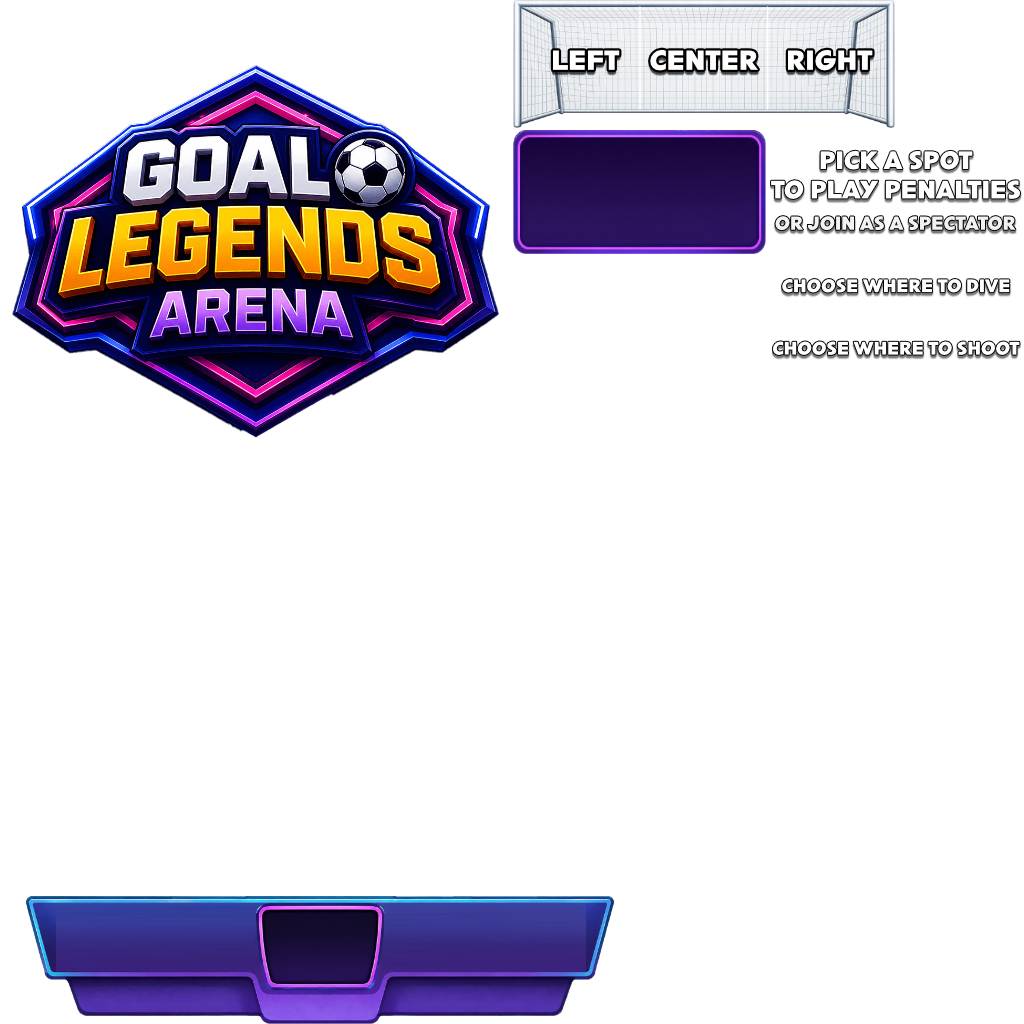
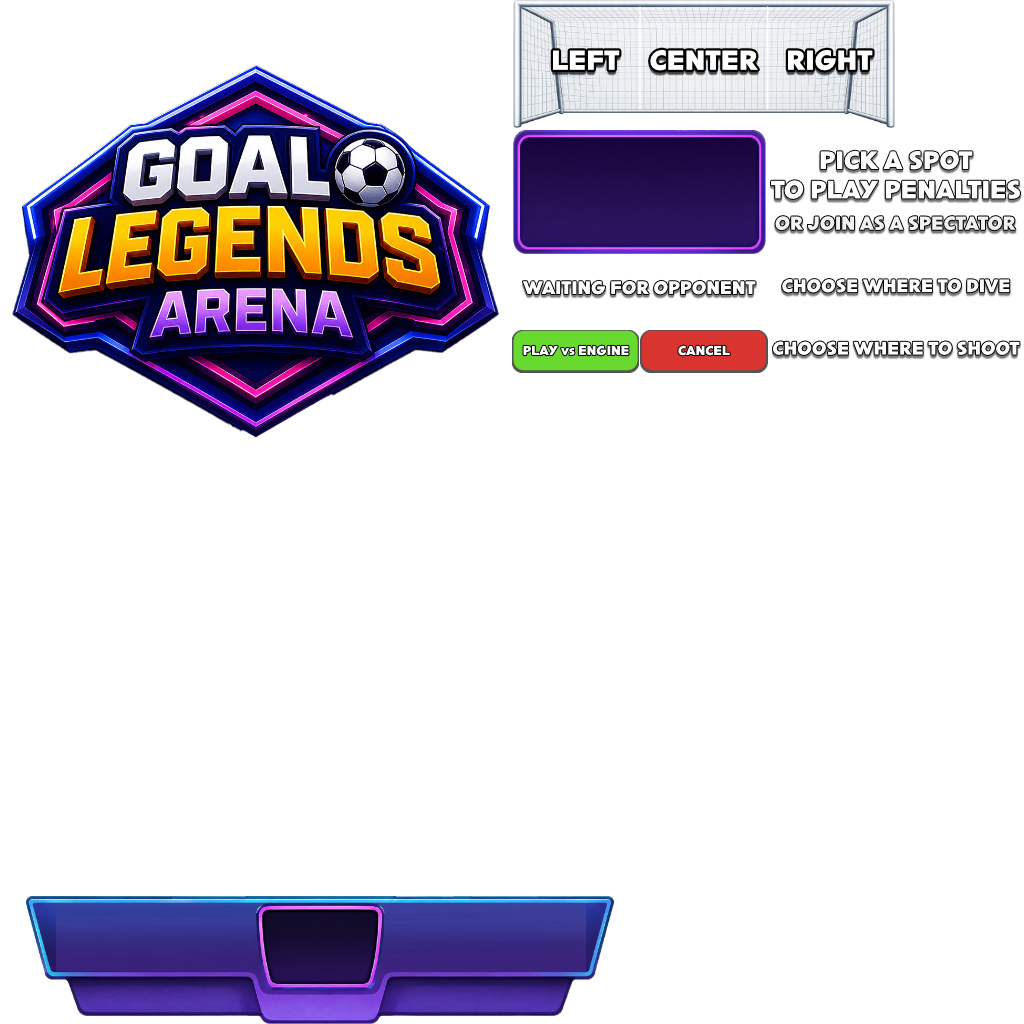
Improve "waiting opponent" UI

Changed region(s): [[0.5, 0.25, 0.75, 0.375]]

diff --git a/src/client/uiManager.tsx b/src/client/uiManager.tsx
@@ -36,7 +36,11 @@ import {
   pickDirectionTitleShootBackground,
   pickDirectionLeftBackground,
   pickDirectionCenterBackground,
-  pickDirectionRightBackground
+  pickDirectionRightBackground,
+  waitingOpponentBackground,
+  waitingOpponentTitleBackground,
+  waitingOpponentPvEButtonBackground,
+  waitingOpponentCancelButtonBackground
 } from './uiAtlasStore'
 
 /**
@@ -167,6 +171,8 @@ let splashDismissed = false
 let hoverPickL = false
 let hoverPickC = false
 let hoverPickR = false
+let hoverWaitPvE = false
+let hoverWaitCancel = false
 let hoverSplashStart = false
 /** Offset entre reloj servidor y cliente, cacheado al primer snapshot válido (solo para debug). */
 let serverClockOffset: number | null = null
@@ -389,6 +395,13 @@ const lbRows = getLeaderboardRows(s.leaderboardJson, LEADERBOARD_TOP_N)
   const sbRowH = Math.max(sbPic, sbFlagH)
   const sbNameH = Math.ceil(fs(18) * 1.2)
   const sbNameW = scoreboardNameLabelWidth()
+
+  const waitPanelW = Math.floor((isMobile() ? 620 : 480) * 1.2)
+  const waitPanelH = Math.floor(waitPanelW / 2)
+  const waitTitleWidth = Math.floor(waitPanelW * 0.85)
+  const waitTitleHeight = Math.floor(waitTitleWidth / 4)
+  const waitBtnW = Math.floor((isMobile() ? 220 : 180) * 1.2)
+  const waitBtnH = Math.floor(waitBtnW / 2)
 
   return (
     <UiEntity
@@ -924,20 +937,63 @@ const lbRows = getLeaderboardRows(s.leaderboardJson, LEADERBOARD_TOP_N)
       {showWaiting && (
         <UiEntity
           uiTransform={{
-            margin: { top: '12vh' },
-            padding: 18,
+            positionType: 'absolute',
+            position: { top: '17vh', left: 0 },
+            width: '100%',
             display: 'flex',
-            flexDirection: 'column',
-            alignItems: 'center'
+            flexDirection: 'row',
+            justifyContent: 'center',
+            zIndex: 48
           }}
-          uiBackground={{ color: Color4.create(0, 0, 0, 0.90) }}
         >
-          <Label value="Waiting for opponent" fontSize={fs(35)} color={Color4.White()} textAlign="middle-center" />
+          <UiEntity
+            uiTransform={{
+              width: waitPanelW,
+              height: waitPanelH,
+              positionType: 'relative'
+            }}
+          >
+            <UiEntity
+              uiTransform={{
+                positionType: 'absolute',
+                position: { top: 0, left: 0 },
+                width: '100%',
+                height: '100%',
+                zIndex: 0
+              }}
+              uiBackground={waitingOpponentBackground()}
+            />
+            <UiEntity
+              uiTransform={{
+                positionType: 'relative',
+                width: '100%',
+                height: '100%',
+                padding: { top: 22, bottom: 22, left: 24, right: 24 },
+                display: 'flex',
+                flexDirection: 'column',
+                alignItems: 'center',
+                justifyContent: 'center',
+                zIndex: 1
+              }}
+            >
+          <UiEntity
+            uiTransform={{
+              width: '100%',
+              display: 'flex',
+              flexDirection: 'row',
+              justifyContent: 'center'
+            }}
+          >
+            <UiEntity
+              uiTransform={{ width: waitTitleWidth, height: waitTitleHeight }}
+              uiBackground={waitingOpponentTitleBackground()}
+            />
+          </UiEntity>
           <Label
             value={`${waitDisplayLeft}s`}
             fontSize={fs(30)}
             color={Color4.create(1, 0.85, 0.2, 1)}
-            uiTransform={{ margin: { top: 10 } }}
+            uiTransform={{ margin: { top: -20 } }}
           />
           <UiEntity
             uiTransform={{
@@ -949,21 +1005,29 @@ const lbRows = getLeaderboardRows(s.leaderboardJson, LEADERBOARD_TOP_N)
             }}
           >
             <Button
-              value="Player vs Engine"
-              fontSize={fs(20)}
-              color={Color4.White()}
-              uiTransform={{ width: 220, height: 44, margin: { right: 12 } }}
-              uiBackground={{ color: Color4.create(0.2, 0.45, 0.25, 1) }}
+              value=""
+              uiTransform={{ width: waitBtnW, height: waitBtnH, margin: { right: 14 } }}
+              uiBackground={{
+                ...waitingOpponentPvEButtonBackground(),
+                color: Color4.create(1, 1, 1, hoverWaitPvE ? 1 : 0.92)
+              }}
               onMouseDown={() => room.send('startPvE', {})}
+              onMouseEnter={() => { hoverWaitPvE = true }}
+              onMouseLeave={() => { hoverWaitPvE = false }}
             />
             <Button
-              value="Cancel"
-              fontSize={fs(20)}
-              color={Color4.White()}
-              uiTransform={{ width: 160, height: 44 }}
-              uiBackground={{ color: Color4.create(0.55, 0.15, 0.2, 1) }}
+              value=""
+              uiTransform={{ width: waitBtnW, height: waitBtnH }}
+              uiBackground={{
+                ...waitingOpponentCancelButtonBackground(),
+                color: Color4.create(1, 1, 1, hoverWaitCancel ? 1 : 0.92)
+              }}
               onMouseDown={() => room.send('cancelWaiting', {})}
+              onMouseEnter={() => { hoverWaitCancel = true }}
+              onMouseLeave={() => { hoverWaitCancel = false }}
             />
+          </UiEntity>
+            </UiEntity>
           </UiEntity>
         </UiEntity>
       )}

diff --git a/src/client/uiAtlasStore.ts b/src/client/uiAtlasStore.ts
@@ -74,6 +74,11 @@ export function pickDirectionPanelBackground() {
   return uiAtlasRangeBackground(WELCOME_SPOT_FROM, WELCOME_SPOT_TO)
 }
 
+/** “Waiting for opponent” panel (UI_atlas E2–F2). */
+export function waitingOpponentBackground() {
+  return uiAtlasRangeBackground(WELCOME_SPOT_FROM, WELCOME_SPOT_TO)
+}
+
 export function pickDirectionLeftBackground() {
   return uiAtlasRangeBackground('E1', 'E1')
 }
@@ -86,8 +91,8 @@ export function pickDirectionRightBackground() {
   return uiAtlasRangeBackground('G1', 'G1')
 }
 
-function pickDirectionTitleHalfBackground(useTopHalf: boolean) {
-  const fullUvs = uiAtlasRangeToUvs('G3', 'H3')
+function uiAtlasRangeHalfBackground(from: string, to: string, useTopHalf: boolean) {
+  const fullUvs = uiAtlasRangeToUvs(from, to)
   const u0 = fullUvs[0]
   const v0 = fullUvs[1]
   const u1 = fullUvs[4]
@@ -97,10 +102,14 @@ function pickDirectionTitleHalfBackground(useTopHalf: boolean) {
     textureMode: 'stretch' as const,
     texture: { src: UI_ATLAS_SRC },
     uvs: useTopHalf
-      ? [u0, vm, u0, v1, u1, v1, u1, vm] // Top half: "where to dive"
-      : [u0, v0, u0, vm, u1, vm, u1, v0], // Bottom half: "where to shoot"
+      ? [u0, vm, u0, v1, u1, v1, u1, vm]
+      : [u0, v0, u0, vm, u1, vm, u1, v0],
     color: Color4.White()
   }
+}
+
+function pickDirectionTitleHalfBackground(useTopHalf: boolean) {
+  return uiAtlasRangeHalfBackground('G3', 'H3', useTopHalf)
 }
 
 export function pickDirectionTitleDiveBackground() {
@@ -109,6 +118,21 @@ export function pickDirectionTitleDiveBackground() {
 
 export function pickDirectionTitleShootBackground() {
   return pickDirectionTitleHalfBackground(false)
+}
+
+/** “Waiting for opponent” title — top half of UI_atlas E3–F3. */
+export function waitingOpponentTitleBackground() {
+  return uiAtlasRangeHalfBackground('E3', 'F3', true)
+}
+
+/** Waiting panel: PvE — bottom half of UI_atlas E3. */
+export function waitingOpponentPvEButtonBackground() {
+  return uiAtlasRangeHalfBackground('E3', 'E3', false)
+}
+
+/** Waiting panel: Cancel — bottom half of UI_atlas F3. */
+export function waitingOpponentCancelButtonBackground() {
+  return uiAtlasRangeHalfBackground('F3', 'F3', false)
 }
 
 /** Width/height of the scoreboard bg sprite (A8–F8 = 6×1 cells). */
